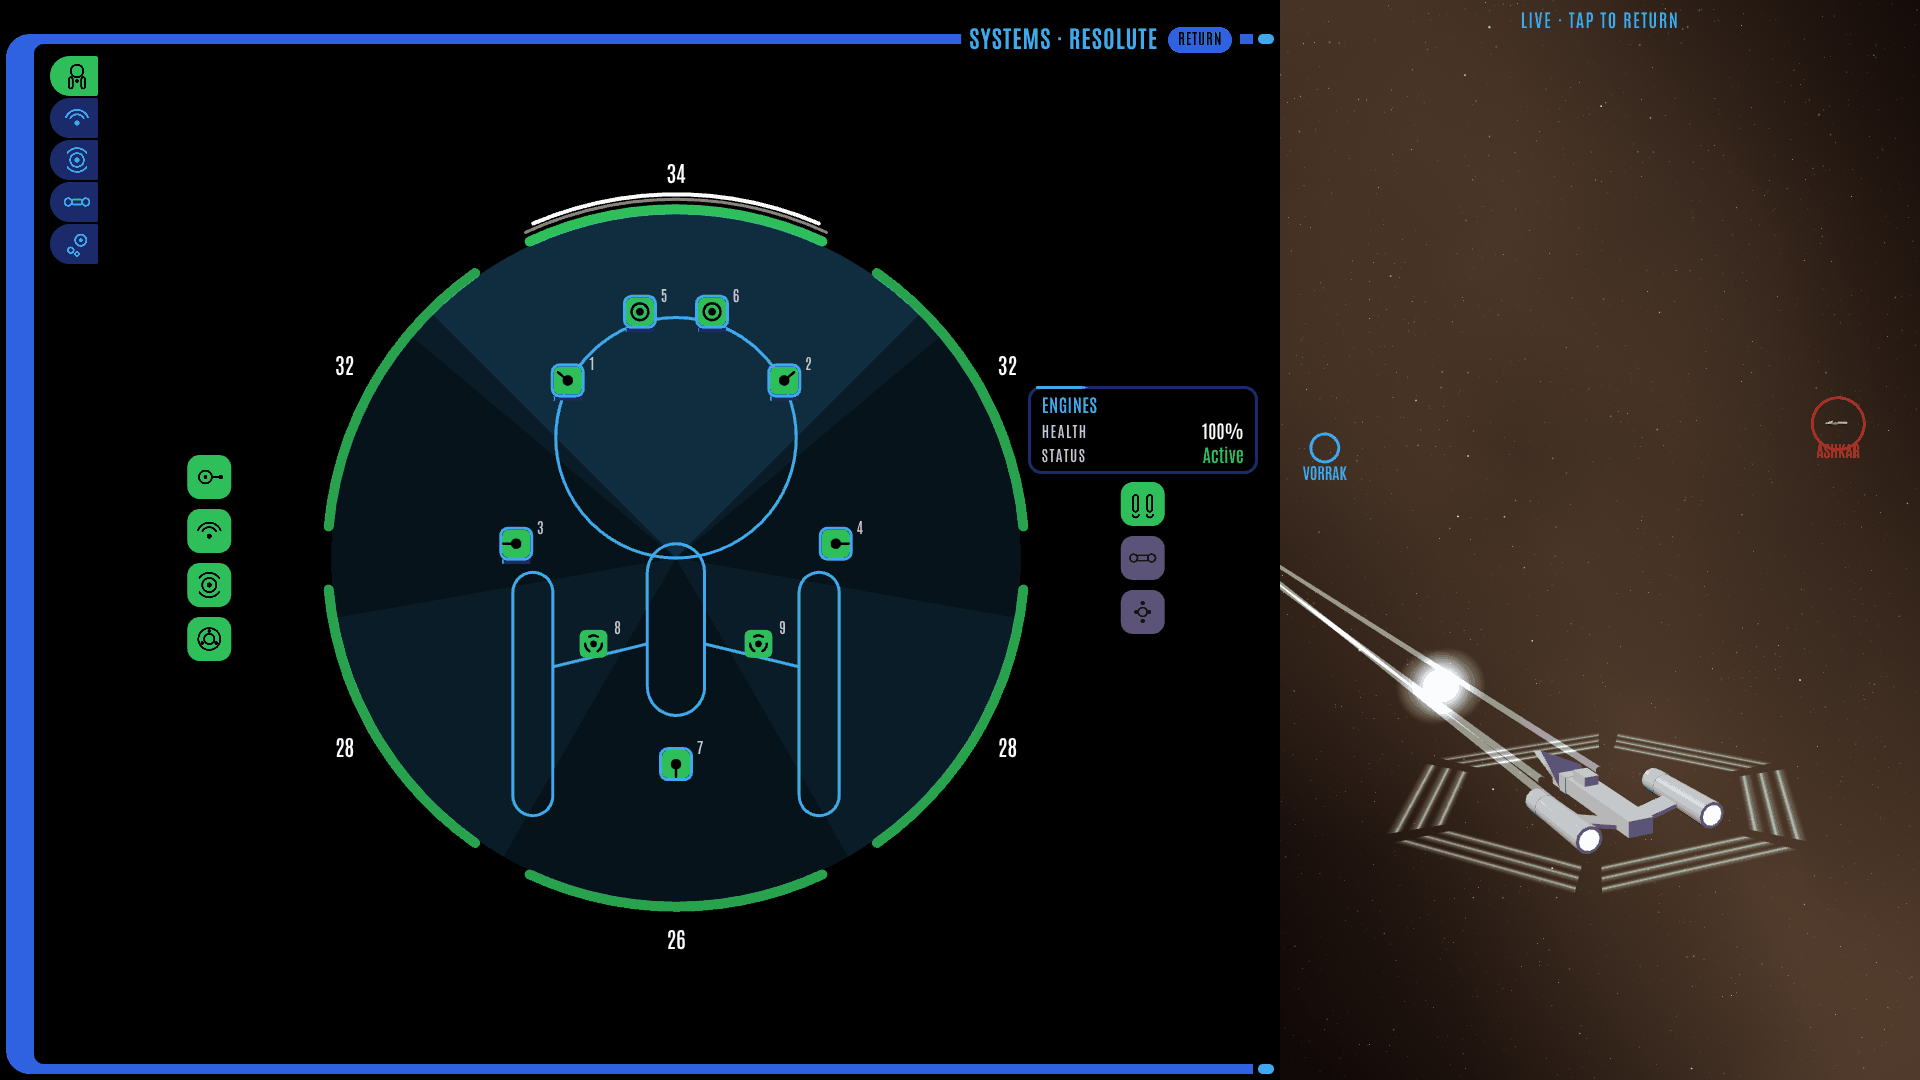
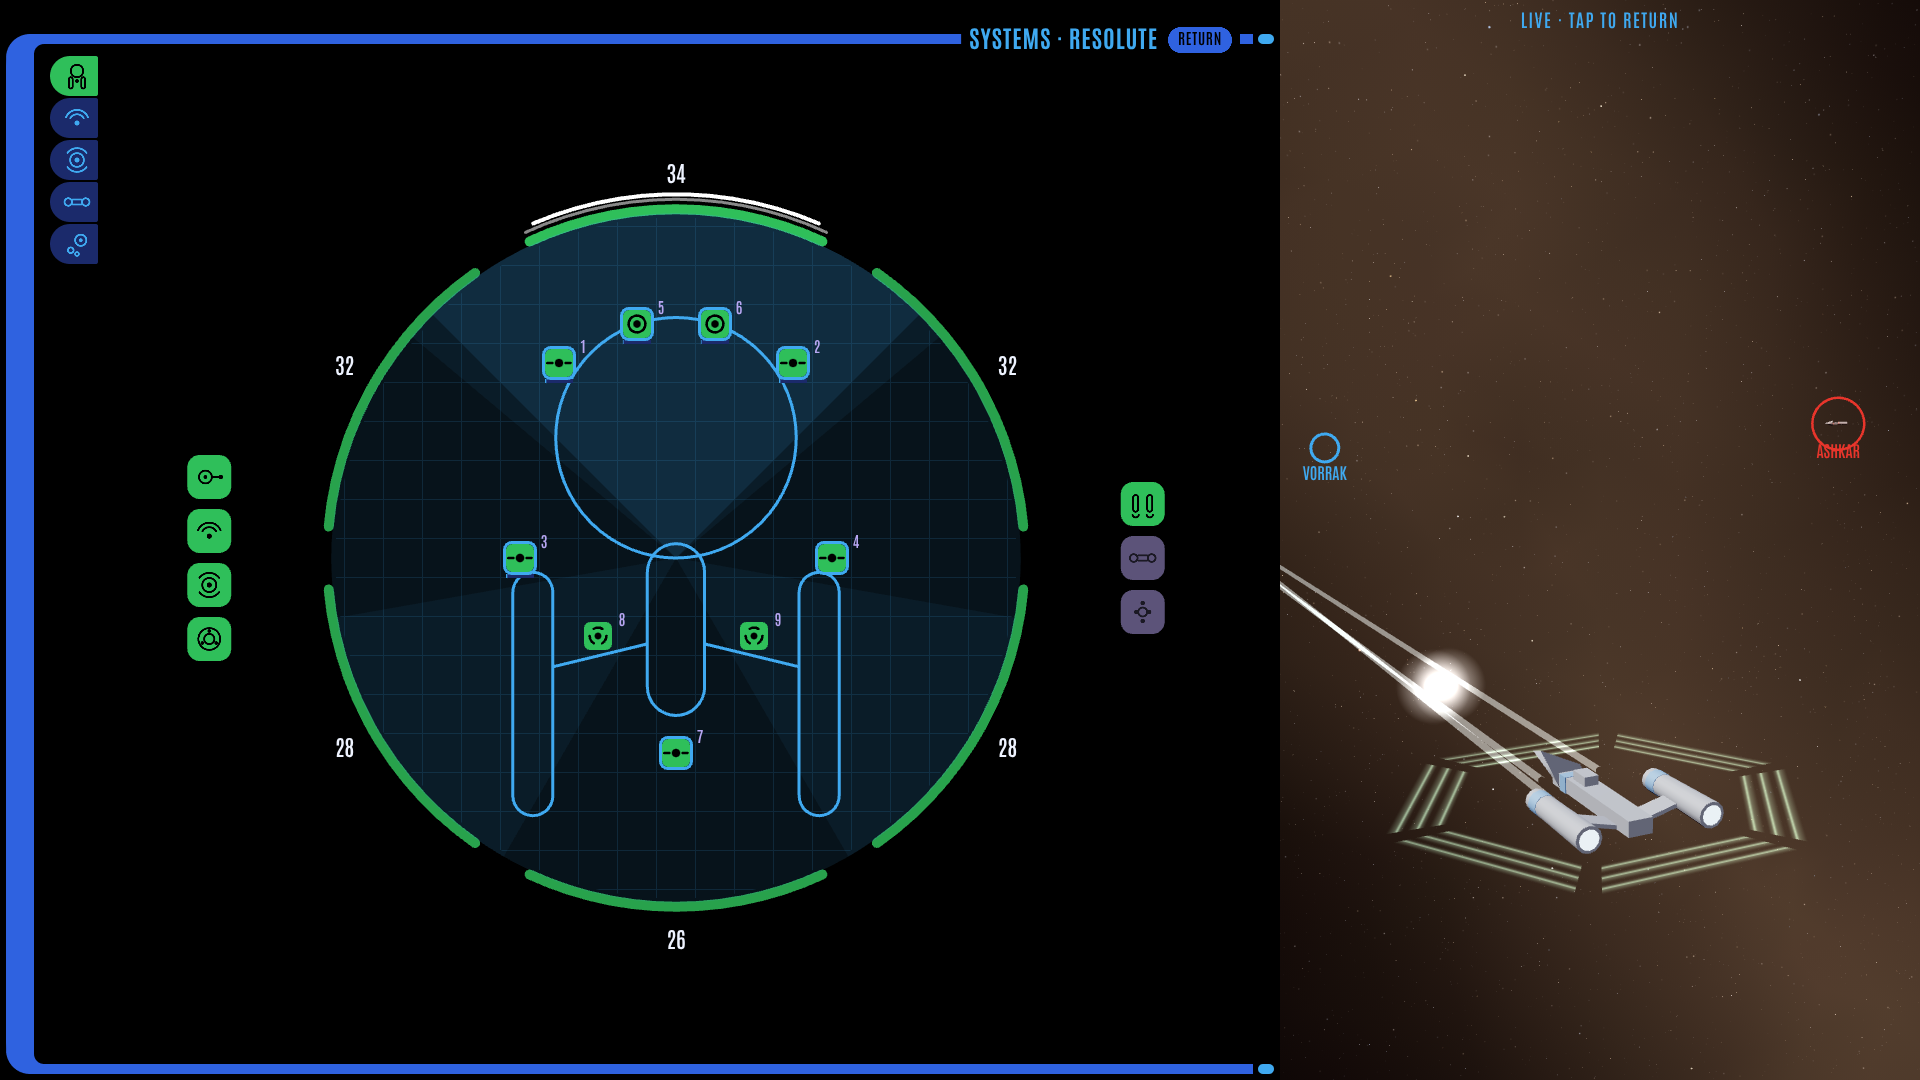
Battle console v16: the mount grid drawn behind the ship
Claude-Session: https://claude.ai/code/session_01RGPQuqAYNNJKpzbbbZ3BfB

diff --git a/docs/mockups/battle-console.html b/docs/mockups/battle-console.html
@@ -1412,6 +1412,18 @@ function drawSSD(x, w, h, s, big, own) {
   if (own) for (const m of s.mounts) if (m.sel && m.w !== 'pd' && m.arc[1] < 360) {
     x.fillStyle = 'rgba(63,169,240,0.06)'; x.beginPath(); x.moveTo(cx, cy); x.arc(cx, cy, Rr - 4, -P / 2 + (m.arc[0] - m.arc[1] / 2) * DEG, -P / 2 + (m.arc[0] + m.arc[1] / 2) * DEG); x.closePath(); x.fill();
   }
+  // The mount grid drawn faintly behind the ship (owner, 2026-11-01: "Grid"): the same cells the weapon boxes snap to,
+  // clipped to the shield ring, lines between cells so every box sits centred in one.
+  {
+    const cell = (big ? 28 : 17) + 11;
+    x.save(); x.beginPath(); x.arc(cx, cy, Rr - (big ? 8 : 5), 0, 2 * P); x.clip();
+    x.strokeStyle = CC.sky; x.globalAlpha = 0.14; x.lineWidth = 1; x.beginPath();
+    for (let g = -Math.ceil(Rr / cell); g <= Math.ceil(Rr / cell); g++) {
+      const o = (g + 0.5) * cell;
+      x.moveTo(cx + o, cy - Rr); x.lineTo(cx + o, cy + Rr); x.moveTo(cx - Rr, cy + o); x.lineTo(cx + Rr, cy + o);
+    }
+    x.stroke(); x.restore();
+  }
   const L = k * 0.78, sh = CLASSES[s.cls].shape;
   x.strokeStyle = CC.sky; x.lineWidth = big ? 3 : 2;
   if (sh === 'saucer') {
@@ -1791,7 +1803,7 @@ function uiView() {
     const tg = inBox(bx + 14, by + 44, ir[2] - 28, ir[3] - 52, (c, w, h) => drawSSD(c, w, h, t, false, false)); ssdHits('tgt', bx + 14, by + 44, tg, t, false);
   }
   if (lock) button('v.lock', lock[0], lock[1], 140, 30, 'Lock target', () => A.lock(lock[2]), { center: true });
-  LBL('Mockup 2 · Battle console · Concord · v15', vx + vw - 104, vy + vh - 20, 0, '#6f7fb4', 'right', 13);
+  LBL('Mockup 2 · Battle console · Concord · v16', vx + vw - 104, vy + vh - 20, 0, '#6f7fb4', 'right', 13);
   button('v.reset', vx + vw - 92, vy + vh - 42, 78, 30, 'Reset', A.reset, { center: true });
 }
 // Mockup only: a heavy hit on your ship from the nearest enemy, to watch the boxes change as damage lands.

diff --git a/docs/mockups/tracker.html b/docs/mockups/tracker.html
@@ -111,7 +111,7 @@ const MOCKUPS = [
     url: 'https://claude.ai/artifact/UBbAouwAU3JvcbGf6MhzLt', published: '2026-10-30', version: 5,
     summary: 'Main menu, skirmish (scenario, point budget, fleet and loadout), the campaign hex map with standees, port panels and missions, deploy, a stand-in battle, results, and back to the map.' },
   { id: 'M2', title: 'In-game UI', change: 'battle-console', page: 'docs/mockups/battle-console.html',
-    url: 'https://claude.ai/artifact/9yertq3bYQRmFiDE7N9eBs', published: '2026-11-01', version: 15,
+    url: 'https://claude.ai/artifact/9yertq3bYQRmFiDE7N9eBs', published: '2026-11-01', version: 16,
     summary: 'The battle console in the Concord skin around a live stand-in battle, desktop first: nine stations and five ship pages on narrow columns of icon tabs named on hover, the ship systems display, weapons, radar and tactical map, a speed handle, Power over Systems with the battery, and the power station\'s Reactor mode: a diagram of the core, coils and coolant loops worked by hand, with a meltdown to avoid. Every panel works and expands.' },
   { id: 'M3', title: 'Look dev', change: 'look-dev', page: 'docs/mockups/look-dev.html',
     url: '', published: '', version: 0,

diff --git a/openspec/changes/battle-console/design.md b/openspec/changes/battle-console/design.md
@@ -121,7 +121,7 @@ icons here, instead of circle icons I prefer square with iconography inside", "s
   colour when not Active, the charge as a bar under it, a Sky ring when selected. Mounts sit on a **grid** (owner, 2026-11-01:
   "They don't seem to align to a grid"): one cell is a box, its selection ring and a 3 px gap, centred on the ship's
   spine. Each mount takes the cell nearest its hull position, rounded alike on both sides so pairs stay mirrored; a
-  taken cell sends it to the nearest free one, its own side first. Boxes line up in rows and columns and never overlap.
+  taken cell sends it to the nearest free one, its own side first. Boxes line up in rows and columns and never overlap. The grid is drawn faintly behind the ship, clipped to the shield ring (owner: "Grid").
 - **Shield strength**: in the 3D view as layers, strong (over 66 %) three green bands, middling two amber, weak one
   red; on the console one band per facing in the same colour (owner: "to avoid clutter. The UI itself should display 1
   layer. Where the game should display multiple"). An empty or lowered facing is a single dark line.

diff --git a/mockup-work.md b/mockup-work.md
@@ -22,7 +22,7 @@ account and every link here is updated.
 | # | Mockup | Stage | OpenSpec change | Page | Link |
 |---|---|---|---|---|---|
 | 1 | Primary game flow | Drafted (2026-10-30, v5) | `game-flow` | `docs/mockups/game-flow.html` | https://claude.ai/artifact/UBbAouwAU3JvcbGf6MhzLt |
-| 2 | In-game UI | Drafted (2026-11-01, v15) | `battle-console` | `docs/mockups/battle-console.html` | https://claude.ai/artifact/9yertq3bYQRmFiDE7N9eBs |
+| 2 | In-game UI | Drafted (2026-11-01, v16) | `battle-console` | `docs/mockups/battle-console.html` | https://claude.ai/artifact/9yertq3bYQRmFiDE7N9eBs |
 | 3 | Look dev | Listed | `look-dev` (to write) | `docs/mockups/look-dev.html` | |
 | 4 | Console skins | Drafted (2026-10-31, v25) | `console-skins` | `docs/mockups/console-skins.html` | https://claude.ai/artifact/UTpgsPvZJrLfkEUmJN7CVb |
 

diff --git a/docs/artifacts/battle-console/README.md b/docs/artifacts/battle-console/README.md
@@ -33,3 +33,4 @@
 - Version 13 published 2026-11-01 (version ids `1793560287-49e6`, then the overlap fix): shield keys fill with their charge, numbers on hover; weapon boxes spaced so even their selection rings never touch (checked headless: no two weapon rectangles overlap).
 - Version 14 published 2026-11-01, version id `1793563480-96e9`: weapon and subsystem boxes filled solid in their status colour; Take a hit in the menu.
 - Version 15 published 2026-11-01, version id `1793564103-a559`: weapon mounts snapped to a grid (rows and columns, mirrored pairs); the lance glyph fixed, no longer turned to its arc.
+- Version 16 published 2026-11-01, version id `1793564157-a675`: the mount grid drawn faintly behind the ship, clipped to the shield ring.
